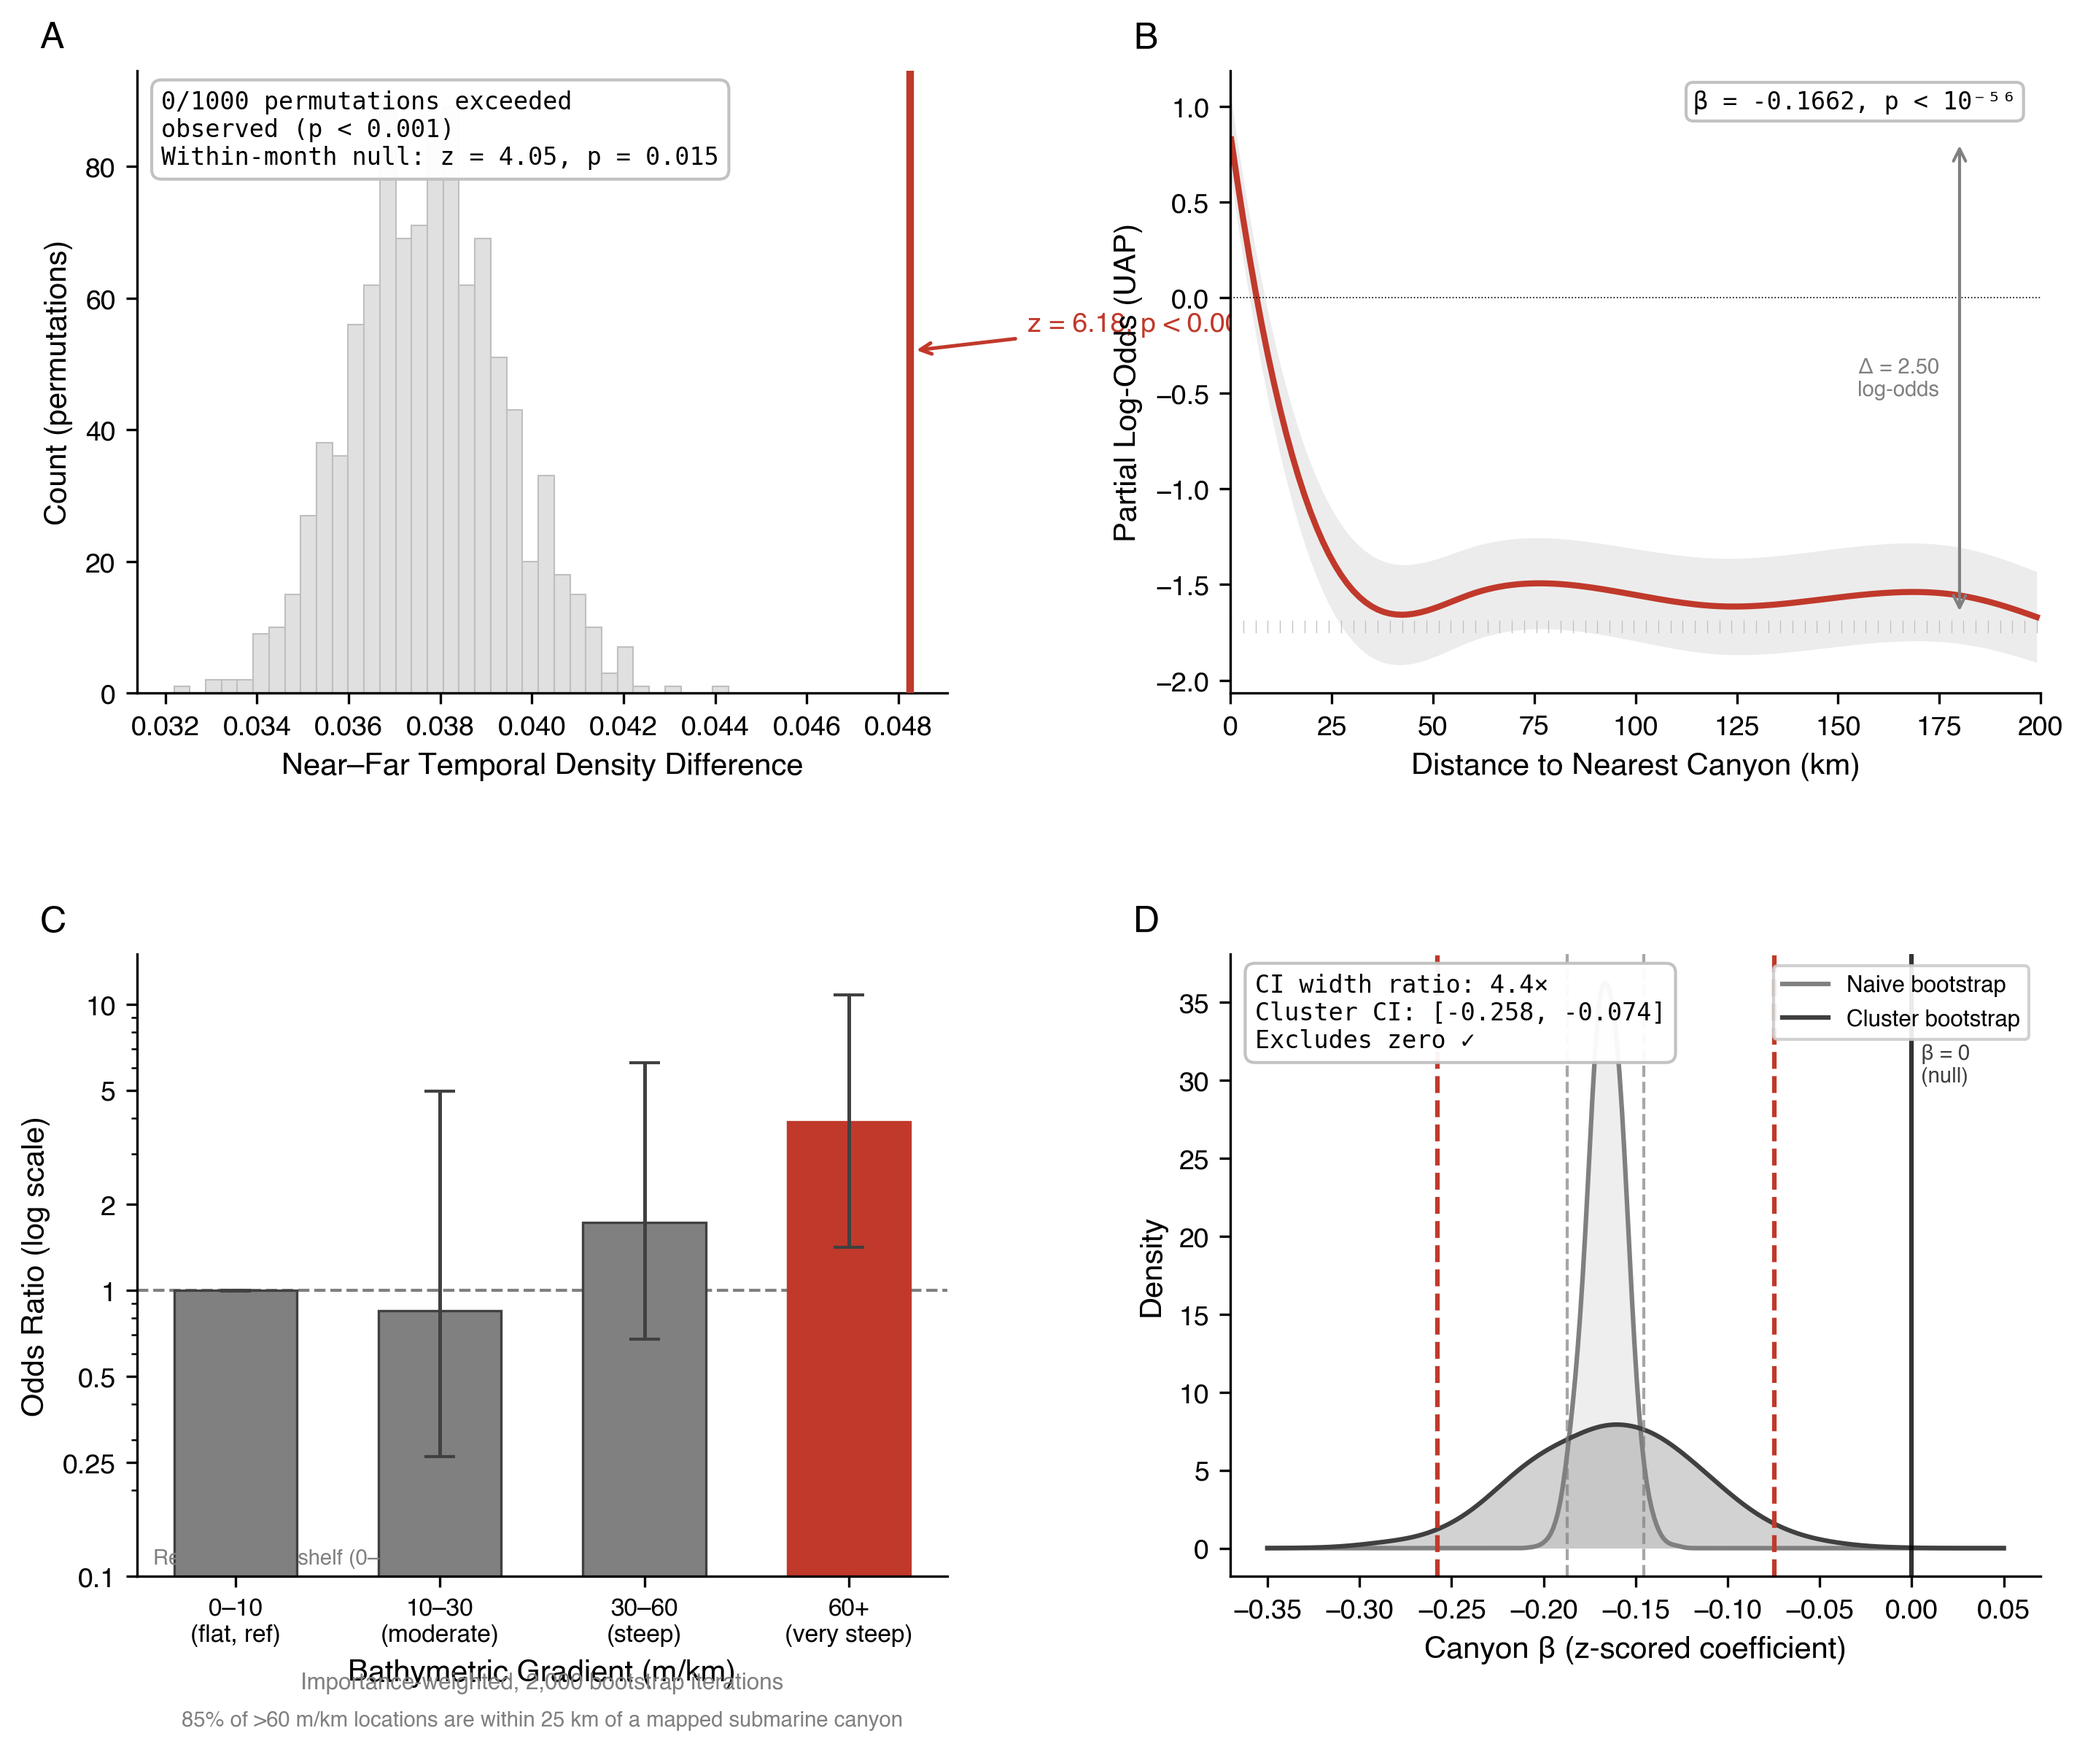
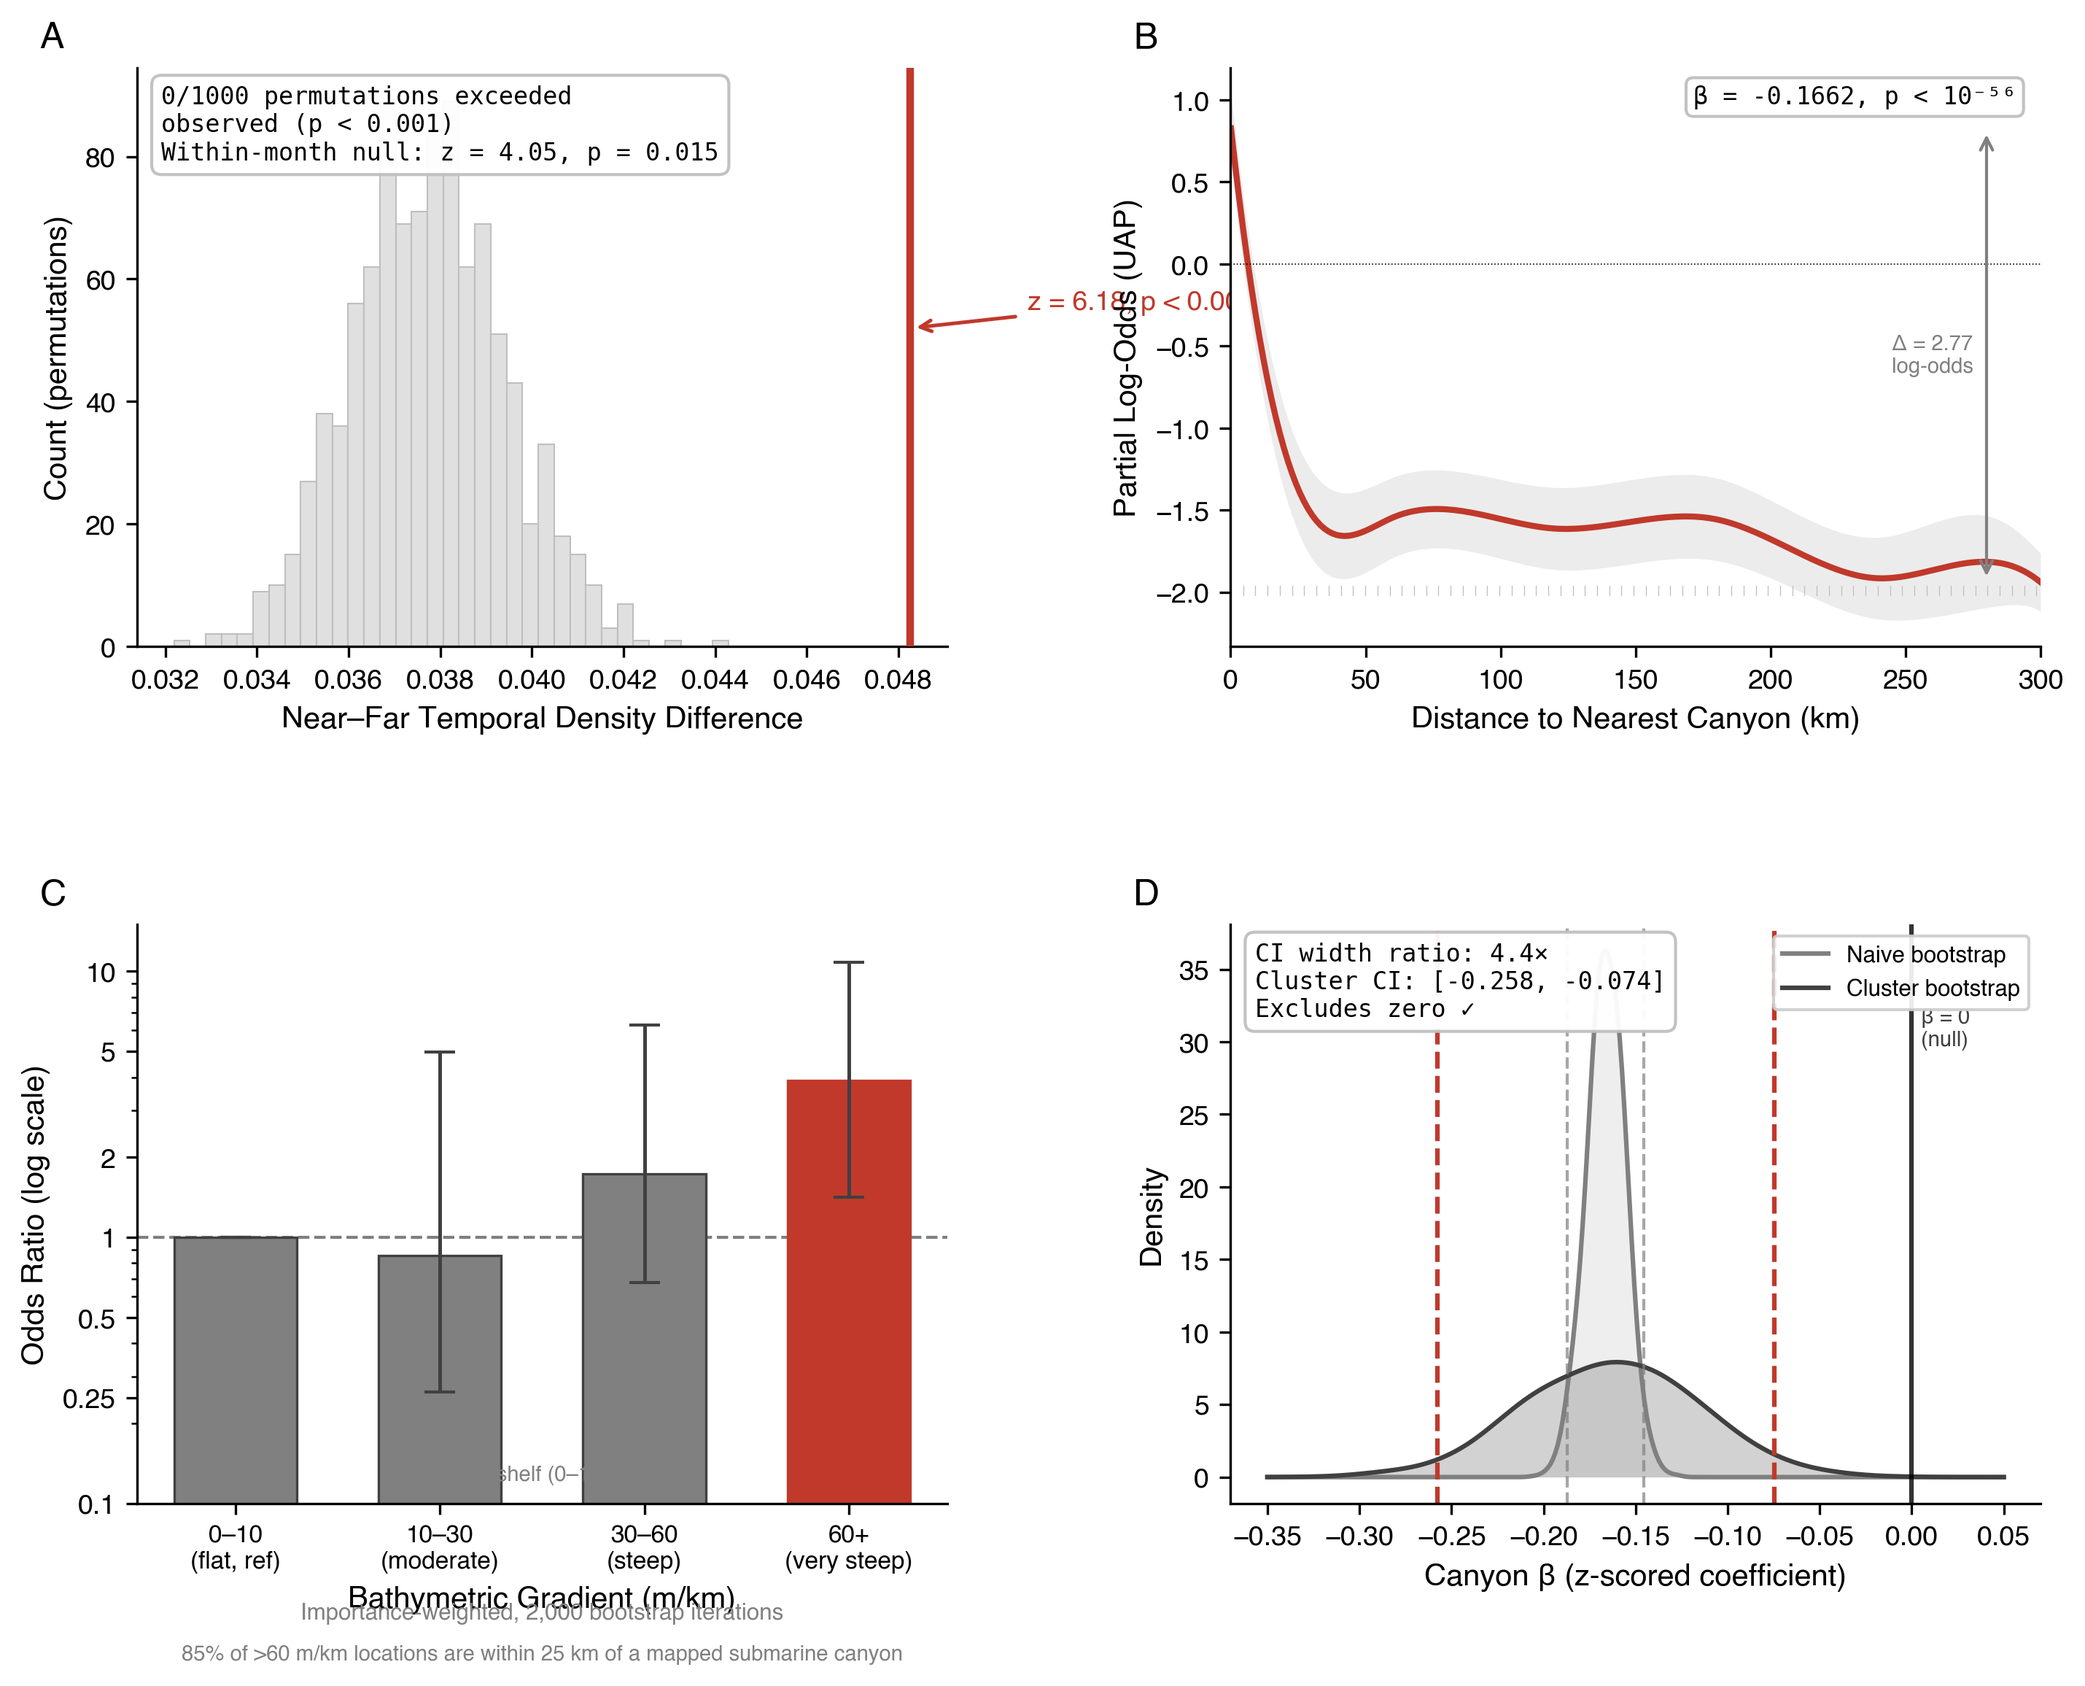
Fix Panel B (300km range, Δ=2.77) and Panel C (text clipping)
- Panel B: expand x-axis to full 0–300 km GAM range
  Δ = 2.77 log-odds now consistent with post text
- Panel C: fix truncated reference text, increase bottom margin
- Isobaths confirmed at -100/-200/-500 per brief

diff --git a/notebooks/06_generate_figures.py b/notebooks/06_generate_figures.py
@@ -66,8 +66,8 @@ print("  All loaded.")
 print("\nGenerating Figure 2 (2×2 panel)...")
 
 fig, axes = plt.subplots(2, 2, figsize=(10, 8))
-fig.subplots_adjust(hspace=0.42, wspace=0.35,
-                    left=0.09, right=0.96, top=0.94, bottom=0.08)
+fig.subplots_adjust(hspace=0.48, wspace=0.35,
+                    left=0.09, right=0.96, top=0.94, bottom=0.12)
 
 # ------ Panel A: Permutation Null Distribution ------
 ax_a = axes[0, 0]
@@ -118,12 +118,11 @@ logodds = np.array(s2['task1_gam']['pdep_logodds'])
 ci_lo = np.array(s2['task1_gam']['pdep_ci_lo'])
 ci_hi = np.array(s2['task1_gam']['pdep_ci_hi'])
 
-# Truncate at 200 km (brief: most action in first 50km, 200 keeps it readable)
-mask200 = distances <= 200
-d = distances[mask200]
-lo = logodds[mask200]
-cl = ci_lo[mask200]
-ch = ci_hi[mask200]
+# Full 0–300 km range (pdep_range = 2.77, consistent with post text)
+d = distances
+lo = logodds
+cl = ci_lo
+ch = ci_hi
 
 ax_b.fill_between(d, cl, ch, alpha=0.15, color=GRAY_MED, linewidth=0)
 ax_b.plot(d, lo, color=ACCENT, linewidth=2)
@@ -131,14 +130,14 @@ ax_b.axhline(0, color='black', linewidth=0.4, linestyle=':')
 
 # Rug plot on x-axis (tick marks showing data density)
 rug_y_base = lo.min() - 0.08  # just below the curve minimum
-rug_x = d[::2]  # every 2nd point
+rug_x = d[::3]  # every 3rd point for clarity at 300km
 for rx in rug_x:
     ax_b.plot([rx, rx], [rug_y_base, rug_y_base + 0.06],
               color=GRAY_LIGHT, linewidth=0.3, clip_on=False)
 
 # Range annotation (arrow spanning the y-axis effect range)
 lo_range = lo.max() - lo.min()
-x_arrow = 180  # km position for the range arrow
+x_arrow = 280  # km position for the range arrow
 ax_b.annotate('', xy=(x_arrow, lo.min()), xytext=(x_arrow, lo.max()),
               arrowprops=dict(arrowstyle='<->', color=GRAY_MED, lw=1))
 ax_b.text(x_arrow - 5, (lo.max() + lo.min()) / 2,
@@ -154,7 +153,7 @@ ax_b.text(0.97, 0.97, f'β = {beta:.4f}, p < 10⁻⁵⁶',
 
 ax_b.set_xlabel('Distance to Nearest Canyon (km)')
 ax_b.set_ylabel('Partial Log-Odds (UAP)')
-ax_b.set_xlim(0, 200)
+ax_b.set_xlim(0, 300)
 ax_b.text(-0.12, 1.08, 'B', transform=ax_b.transAxes, fontsize=12,
           fontweight='bold', va='top')
 
@@ -204,14 +203,14 @@ ax_c.set_xlabel('Bathymetric Gradient (m/km)')
 ax_c.set_ylabel('Odds Ratio (log scale)')
 
 # Annotations per brief
-ax_c.text(0.5, -0.18, 'Importance-weighted, 2,000 bootstrap iterations',
+ax_c.text(0.5, -0.20, 'Importance-weighted, 2,000 bootstrap iterations',
           transform=ax_c.transAxes, fontsize=7.5, ha='center', color=GRAY_MED)
-ax_c.text(0.5, -0.24,
+ax_c.text(0.5, -0.27,
           '85% of >60 m/km locations are within 25 km of a mapped submarine canyon',
           transform=ax_c.transAxes, fontsize=7, ha='center', color=GRAY_MED,
           style='italic')
-ax_c.text(0.02, 0.02, 'Reference: flat shelf (0–10 m/km)',
-          transform=ax_c.transAxes, fontsize=7, color=GRAY_MED)
+ax_c.text(0.5, 0.04, 'Ref: flat shelf (0\u201310 m/km)',
+          transform=ax_c.transAxes, fontsize=7, ha='center', color=GRAY_MED)
 
 ax_c.text(-0.12, 1.08, 'C', transform=ax_c.transAxes, fontsize=12,
           fontweight='bold', va='top')
